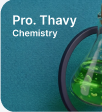
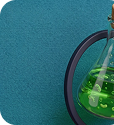
feat: use original high-res card graphics for featured courses

diff --git a/lib/widgets/featured_course_card.dart b/lib/widgets/featured_course_card.dart
@@ -20,44 +20,57 @@ class FeaturedCourseCard extends StatelessWidget {
     return GestureDetector(
       onTap: onTap,
       child: Container(
-        width: 124,
+        width: 120,
+        height: 125,
         margin: const EdgeInsets.only(right: 12),
         decoration: BoxDecoration(
           borderRadius: BorderRadius.circular(20),
           boxShadow: [
             BoxShadow(
-              color: Colors.black.withAlpha(20),
-              blurRadius: 10,
-              offset: const Offset(0, 4),
+              color: Colors.black.withAlpha(15),
+              blurRadius: 8,
+              offset: const Offset(0, 3),
             ),
           ],
         ),
         child: ClipRRect(
           borderRadius: BorderRadius.circular(20),
-          child: Image.asset(
-            assetImage,
-            fit: BoxFit.cover,
-            errorBuilder: (_, __, ___) => Container(
-              color: const Color(0xFFE8820C),
-              padding: const EdgeInsets.all(12),
-              child: Column(
-                crossAxisAlignment: CrossAxisAlignment.start,
-                children: [
-                  Text(
-                    course.mentorName,
-                    style: GoogleFonts.inter(
-                      fontSize: 14,
-                      fontWeight: FontWeight.w800,
-                      color: Colors.white,
-                    ),
-                  ),
-                  Text(
-                    course.subject,
-                    style: GoogleFonts.inter(fontSize: 12, color: Colors.white70),
-                  ),
-                ],
+          child: Stack(
+            fit: StackFit.expand,
+            children: [
+              // Background Image with 3D elements
+              Image.asset(
+                assetImage,
+                fit: BoxFit.cover,
               ),
-            ),
+              // Text overlay top-left
+              Padding(
+                padding: const EdgeInsets.fromLTRB(14, 12, 10, 10),
+                child: Column(
+                  crossAxisAlignment: CrossAxisAlignment.start,
+                  children: [
+                    Text(
+                      course.mentorName,
+                      style: GoogleFonts.inter(
+                        fontSize: 14,
+                        fontWeight: FontWeight.w800,
+                        color: Colors.white,
+                        height: 1.2,
+                      ),
+                    ),
+                    const SizedBox(height: 3),
+                    Text(
+                      course.subject,
+                      style: GoogleFonts.inter(
+                        fontSize: 12,
+                        fontWeight: FontWeight.w500,
+                        color: Colors.white.withAlpha(220),
+                      ),
+                    ),
+                  ],
+                ),
+              ),
+            ],
           ),
         ),
       ),
